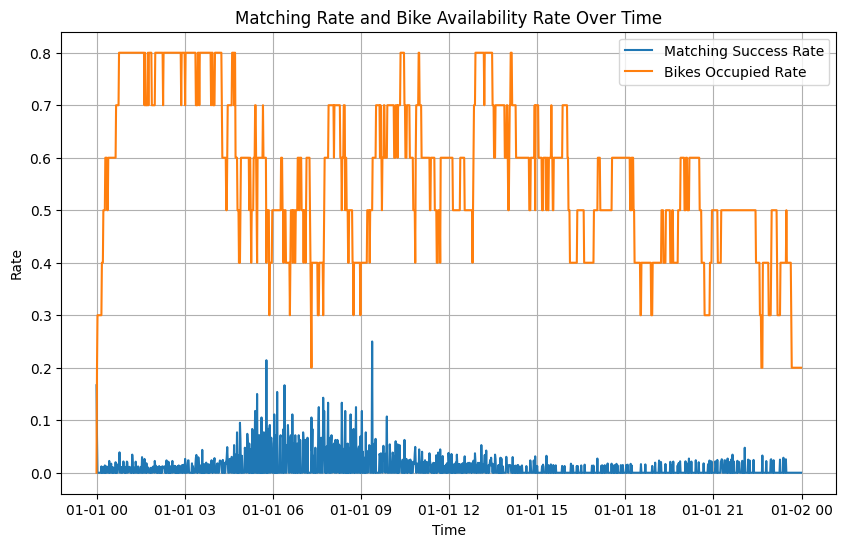
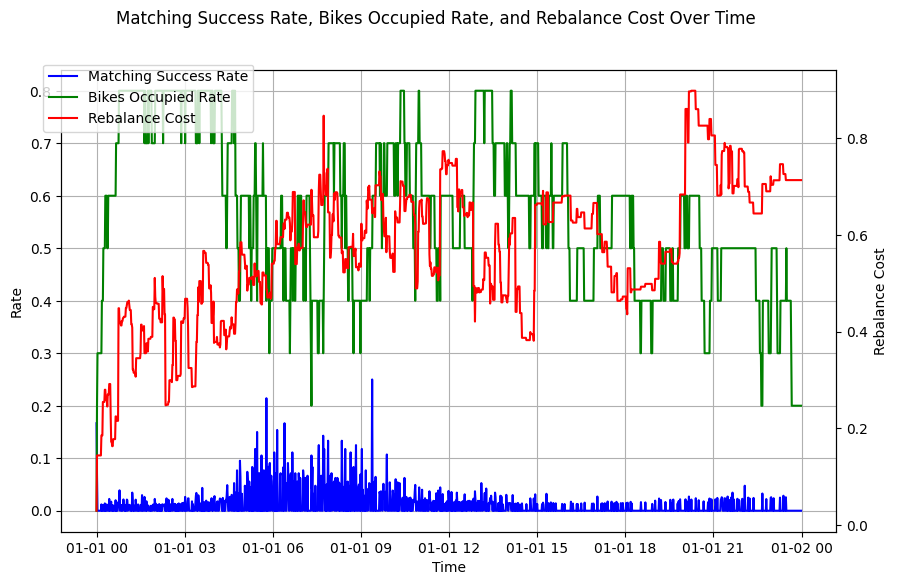
地方会予稿作成に伴うtexデータを修正

diff --git a/documents/JHESConference/tex/main.tex b/documents/JHESConference/tex/main.tex
@@ -52,7 +52,7 @@
 % ==============================================
 %
 \begin{center}
-{\Large 2024年度電気・情報関係学会北陸支部連合大会(ver.0.1.0)}\\
+{\Large 2024年度電気・情報関係学会北陸支部連合大会(ver.0.1.1)}\\
 \vspace{-2mm}\rule{\textwidth}{1mm}
 \end{center}
 % ==============================================
@@ -80,9 +80,9 @@ C2Cドックレスシェアサイクル実現に向けた \\
 {\large
 {風折 晃輝(福井大学 大学院 工学研究科)}
 
-{小高 知宏・黒岩 丈介（福井大学 大学院 工学研究科）}
+{小高 知宏・松田 優也・黒岩 丈介（福井大学 大学院 工学研究科）}
 
-{白井 治彦（福井大学 工学部）・諏訪 いずみ（仁愛女子短期大学）}
+{諏訪 いずみ（仁愛女子短期大学）}
 }
 \end{center}
 \end{minipage}
@@ -106,7 +106,7 @@ C2Cドックレスシェアサイクル実現に向けた \\
 \section{数理最適化ベースの自転車割り当てモデル}
 \vspace{-3mm}
 \par 本モデルでは，個人が所有する自転車をシェアリングの対象とし，ユーザー体験の観点からドックレスで乗り捨て可能なシステムを前提とする．なお，乗り捨てによる自転車の不法駐輪等の法的な課題に関してはここでは考えないこととし，あくまで自転車の割り当て問題として切り分けてモデリングする．
-\par ユーザーリクエストの集合を$J(j \in J)$，シェアリングされる自転車の集合を$B(b \in B)$，ユーザー$j$に自転車$b$が割り当てられたか否かの二値変数行列を$x_{b,j}$とする．目的関数は(1)式のように定義し，ユーザーリクエストの集合$J$の全てのユーザーをピックアップした後の自転車の散らばりを最小化し，なおかつ可能な限り多くのユーザーに自転車を割り当てることとする．ただし，$\alpha$は$x_{b,j}$に対する重みである．
+\par ユーザーリクエストの集合を$J(j \in J)$，シェアリングされる自転車の集合を$B(b \in B)$，ユーザー$j$に自転車$b$が割り当てられたか否かの二値変数行列を$x_{b,j}$，割り当て移動後の距離行列を$d_{b,j}$とする．目的関数は(1)式のように定義し，ユーザーリクエストの集合$J$の全てのユーザーをピックアップした後の自転車の散らばりを最小化し，なおかつ可能な限り多くのユーザーに自転車を割り当てることとする．ただし，$\alpha$は$x_{b,j}$に対する重みである．
 
 $$ (1) min (\sum_{b}\sum_{j}d_{b,j}x_{b,j} - \alpha\sum_{b}\sum_{j}x_{b,j}) $$
 
@@ -129,10 +129,10 @@ $$ (1) min (\sum_{b}\sum_{j}d_{b,j}x_{b,j} - \alpha\sum_{b}\sum_{j}x_{b,j}) $$
 
 \begin{figure}[b]
   \centering
-  \includegraphics[scale=0.4]
+  \includegraphics[scale=0.37]
   {figures/dispatchedResultFor1Day.png}
   \vspace{-3mm}
-  \caption{自転車の占有率と割り当て成功率}
+  \caption{自転車の割り当て成功率とステータスの変化}
   \label{fig:resultFig}
 \end{figure}
 
